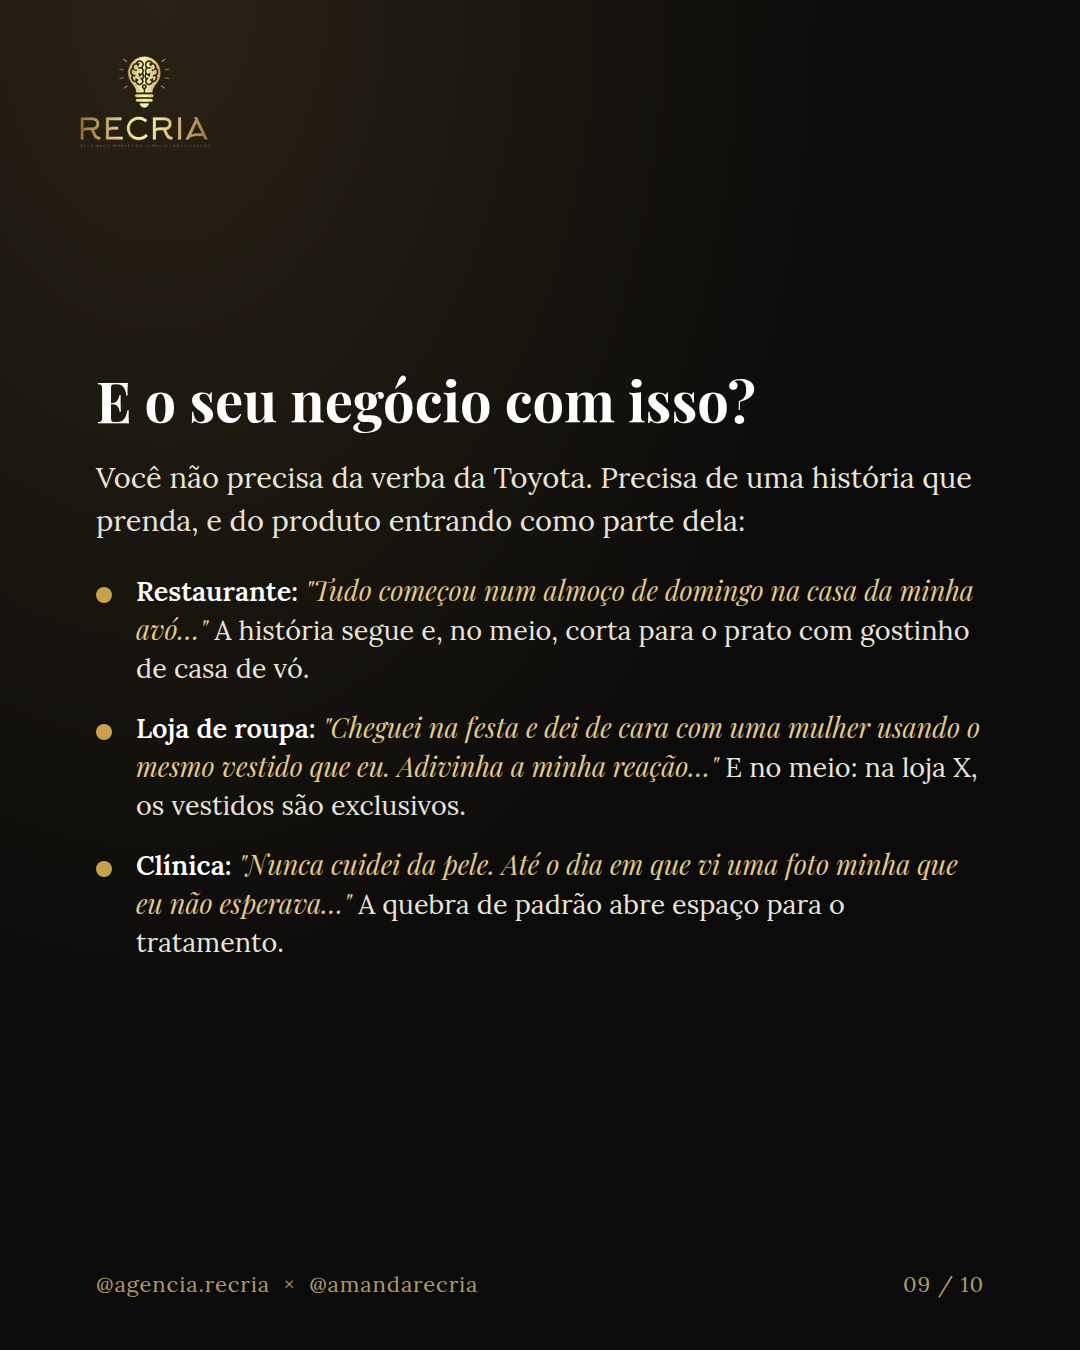
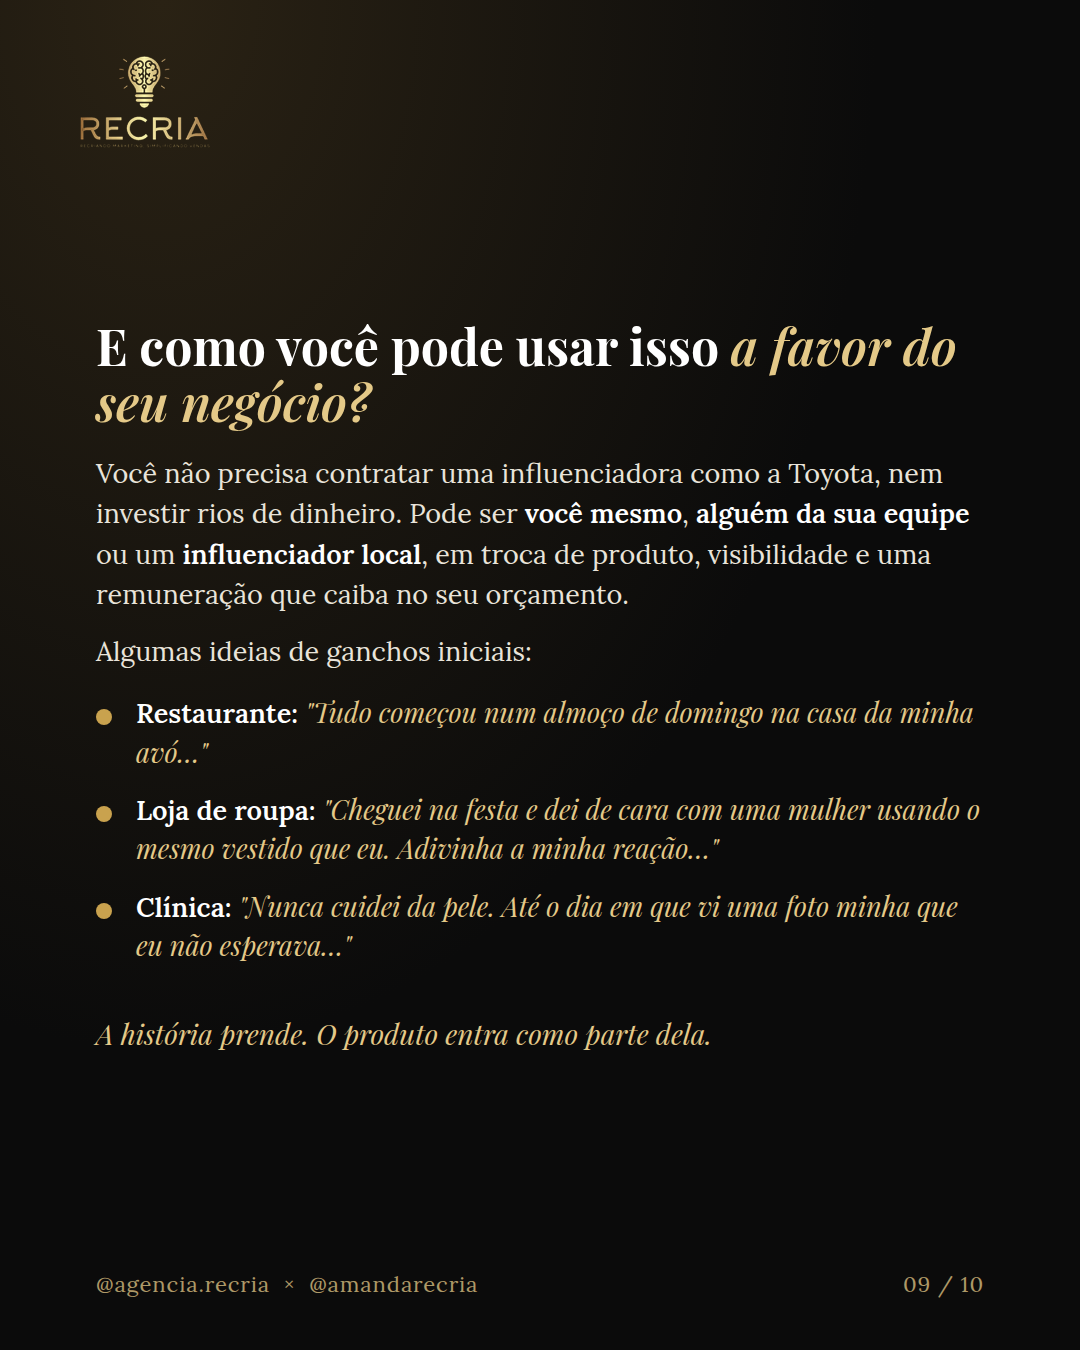
Carrossel 14/10: novos textos dos cards 9 e 10
Claude-Session: https://claude.ai/code/session_01RDM8d5cVD9w4uwiMSyLkgt

Changed region(s): [[0.0917, 0.2489, 0.9167, 0.7156], [0.0917, 0.7467, 0.6417, 0.7778]]

diff --git a/agencia-recria/copies/carrosseis-outubro-2026.md b/agencia-recria/copies/carrosseis-outubro-2026.md
@@ -106,8 +106,8 @@ Explicamos tudo no direct. E ainda enviamos um presente. 🎁
 6. **2. Anúncio sem cara de anúncio.** Os primeiros segundos parecem conteúdo da criadora, não comercial. O produto entra como a solução da história, não como interrupção. E a oferta vem embrulhada em humor.
 7. **3. Storytelling, como num episódio de série.** O vídeo começa com comentários do vídeo anterior: "Essa promessa é clássica, tô esperando o meu até hoje." É o episódio 2, pedido pelo público, como numa novela. E a neurociência explica por que isso prende: o cérebro humano busca fechamento. Tudo precisa ter começo, meio e fim. Quando uma história começa e desperta interesse, a mente só sossega quando sabe como ela termina. / *Foi esse o gancho que segurou a pessoa até o meio do vídeo, exatamente onde entra a Toyota.*
 8. **4. Público certo, oferta certa.** A Sarah fala com empreendedores. A condição é para compra com CNPJ. E o bordão "tô de carro novo" já nasce pronto para ser repetido.
-9. **E o seu negócio com isso?** Você não precisa da verba da Toyota. Precisa de uma história que prenda, e do produto entrando como parte dela: Restaurante ("Tudo começou num almoço de domingo na casa da minha avó…"), Loja de roupa ("Cheguei na festa e dei de cara com uma mulher usando o mesmo vestido que eu. Adivinha a minha reação…"; na loja X, os vestidos são exclusivos), Clínica ("Nunca cuidei da pele. Até o dia em que vi uma foto minha que eu não esperava…").
-10. **CTA:** Quer aprender a vender sem parecer que está vendendo, em qualquer tipo de conteúdo? COMENTE: **RECRIA ADS**. E receba um presente: um passo a passo para criar conteúdos e anúncios sem cara de anúncio. 🎁 Também vamos te apresentar o curso Recria Ads, com o passo a passo completo e aprofundado para quem está pronto para dar o próximo passo no negócio. / Quer que nós olhemos o seu negócio mais de perto? Comente **CONSULTORIA** e receba um direcional personalizado.
+9. **E como você pode usar isso a favor do seu negócio?** Você não precisa contratar uma influenciadora como a Toyota, nem investir rios de dinheiro. Pode ser você mesmo, alguém da sua equipe ou um influenciador local, em troca de produto, visibilidade e uma remuneração que caiba no seu orçamento. Algumas ideias de ganchos iniciais: Restaurante ("Tudo começou num almoço de domingo na casa da minha avó…"), Loja de roupa ("Cheguei na festa e dei de cara com uma mulher usando o mesmo vestido que eu. Adivinha a minha reação…"), Clínica ("Nunca cuidei da pele. Até o dia em que vi uma foto minha que eu não esperava…"). / *A história prende. O produto entra como parte dela.*
+10. **CTA:** Quer aprender a vender sem parecer que está vendendo, em qualquer tipo de conteúdo? COMENTE: **RECRIA ADS**. E receba um presente: um passo a passo para criar conteúdos e anúncios sem cara de anúncio. 🎁 Também vamos te apresentar o Recria Ads, o nosso curso mais aprofundado: vender com leveza e naturalidade, sem parecer aquele vendedor chato. O próximo passo para o seu negócio. / Quer que nós olhemos o seu negócio mais de perto? Comente **CONSULTORIA** e receba um direcional personalizado.
 
 ### Legenda
 > "Passou na faculdade, ganhou um carro." Quase todo pai prometeu. A minoria cumpriu. 🚗😂
